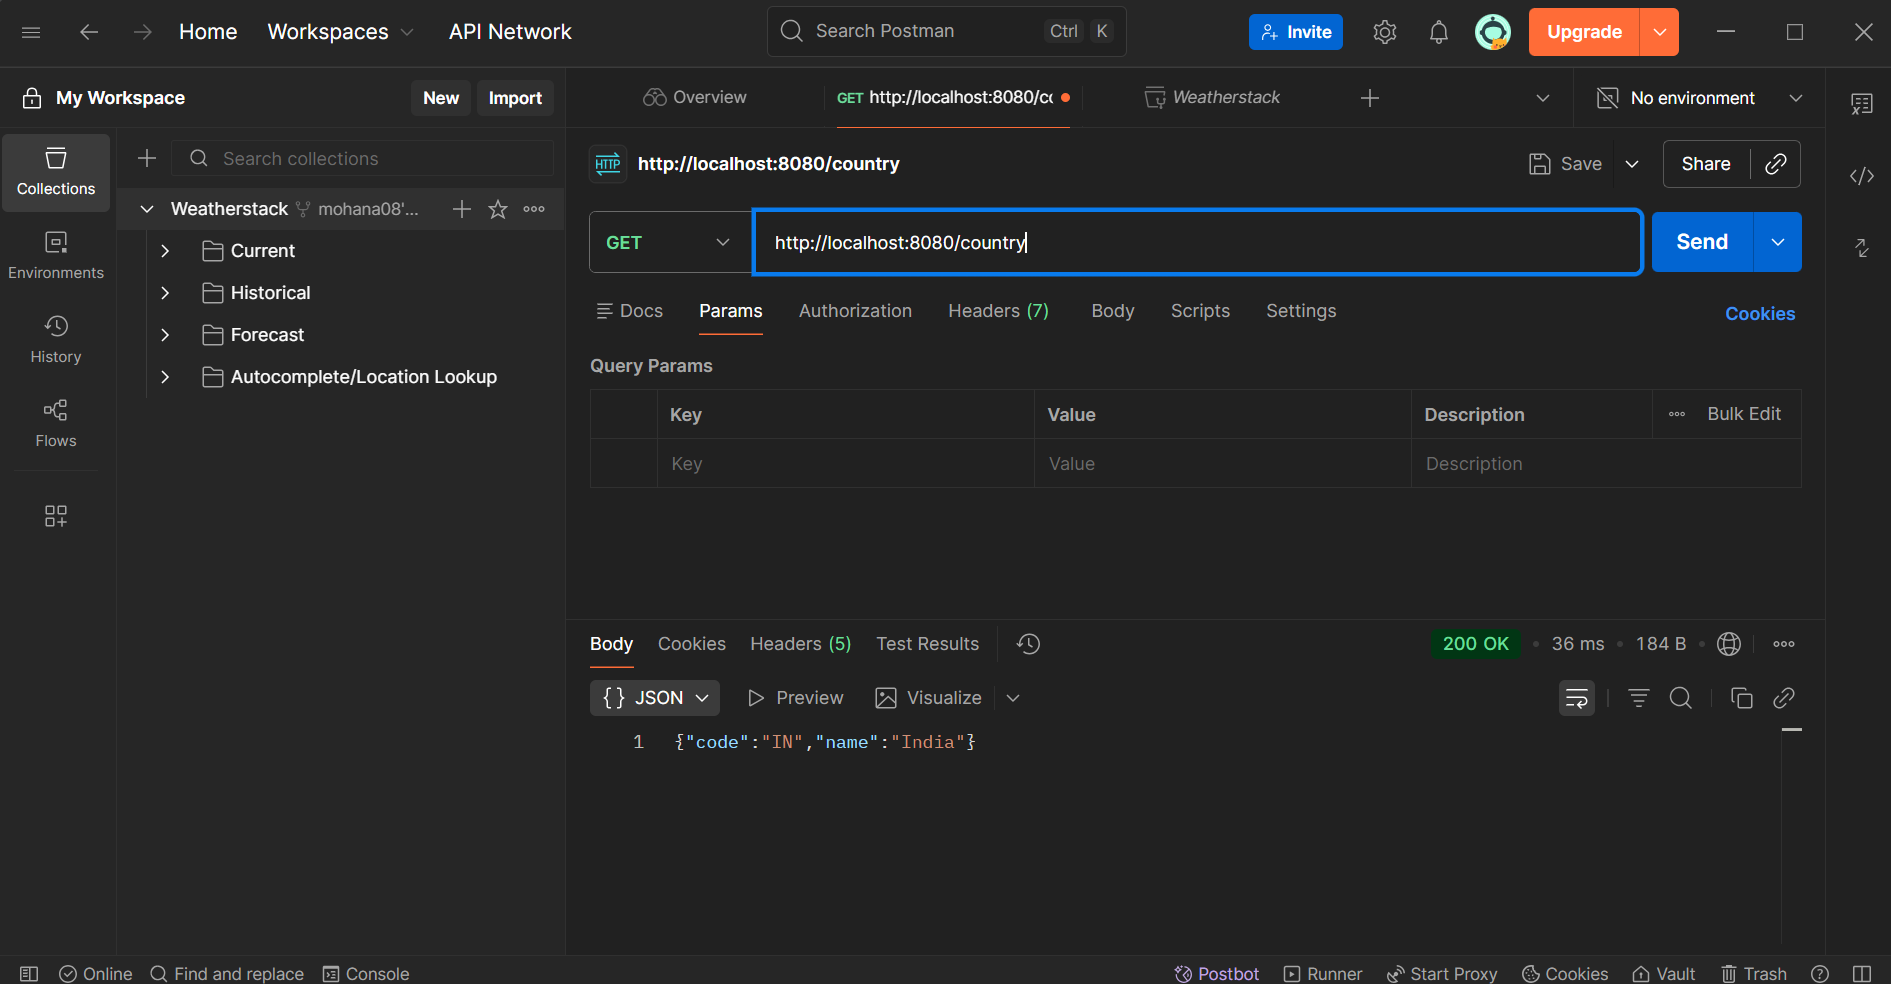
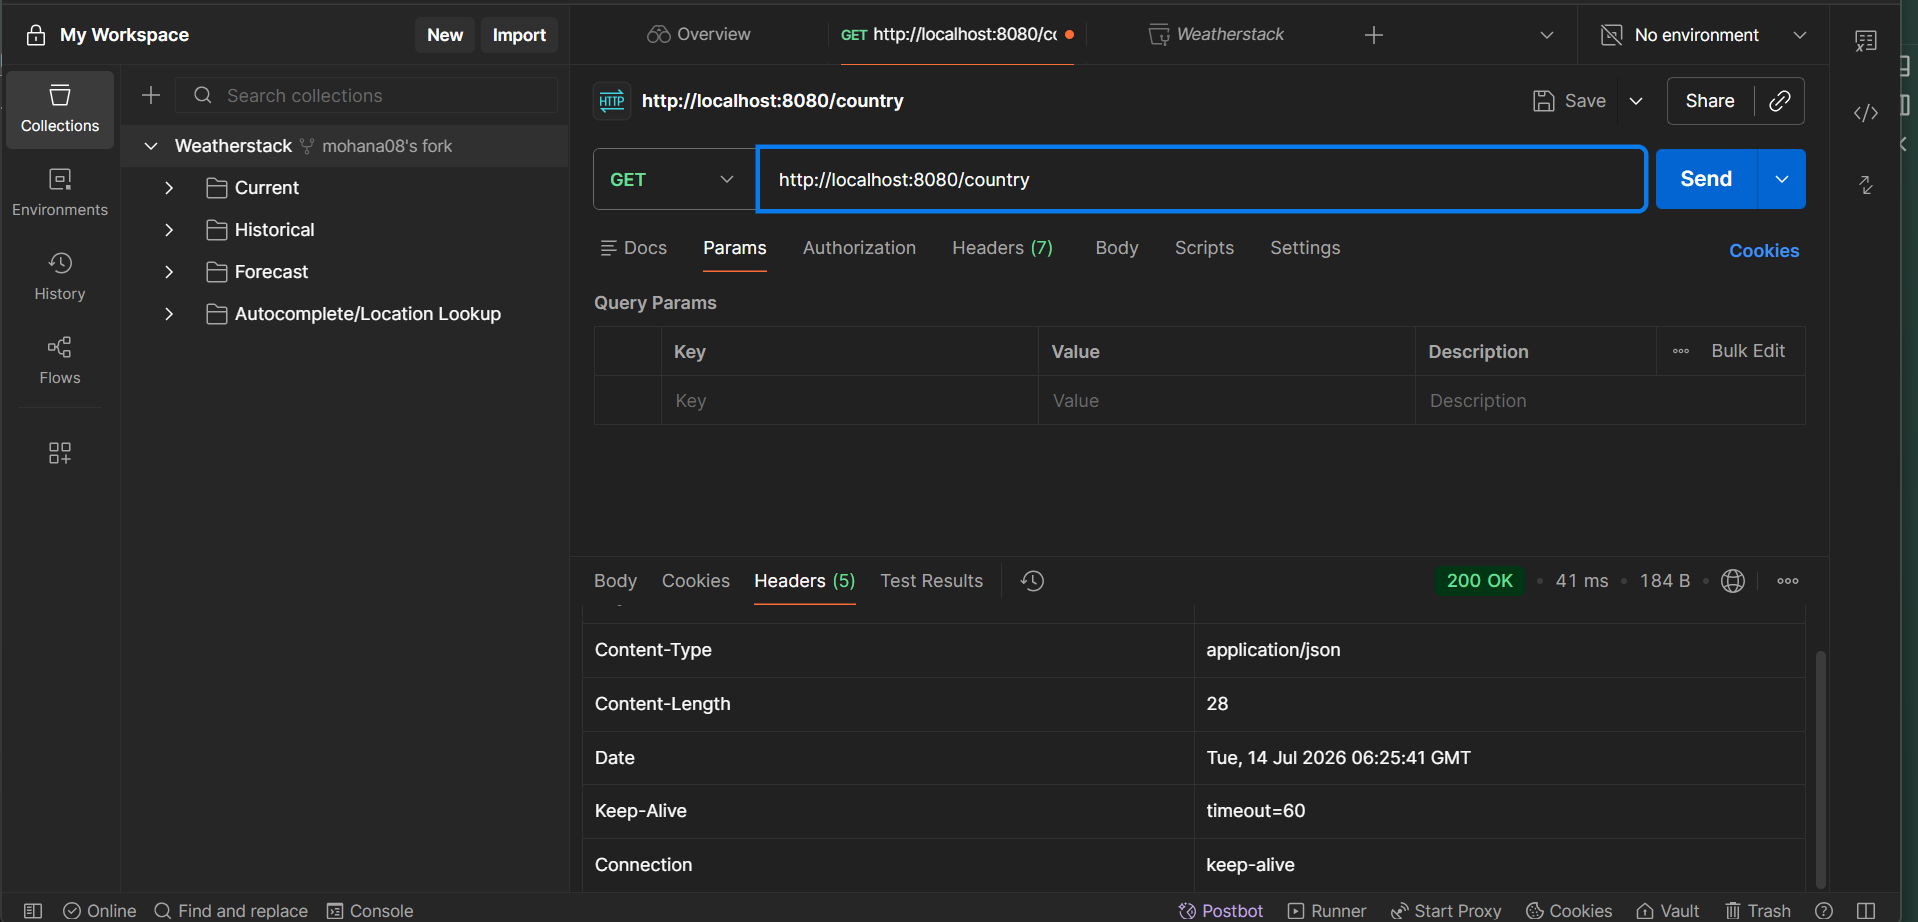
week-3 2.rest-handson-output

diff --git a/week3/2. spring-rest-handson/Country/README.md b/week3/2. spring-rest-handson/Country/README.md
@@ -1,0 +1,10 @@
+1.What happens in the controller method?
+-> First when the client sends /country spring DispatcherServerlet receives the request . It finds @RequestMapping("/country") and call getCountry()
+
+->When this line executes ClassPathXmlApplicationContext context =
+        new ClassPathXmlApplicationContext("country.xml");
+spring opens the country.xml file and then using java reflection creates an object from class="com.cognizant.springlearn.model.Country".
+
+2.How Does the Bean Become JSON?
+
+when the controller is annotated with @RestController the spring knows that the response is to be written inside a http response body